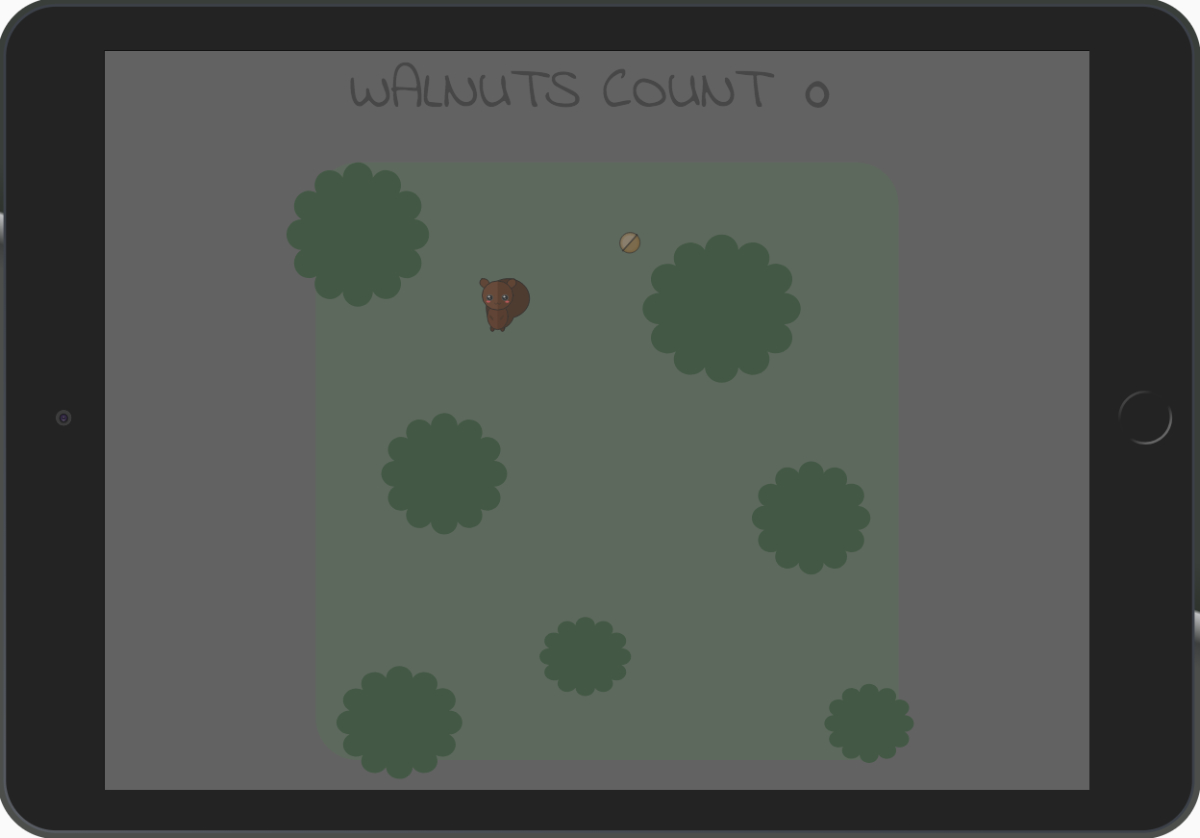
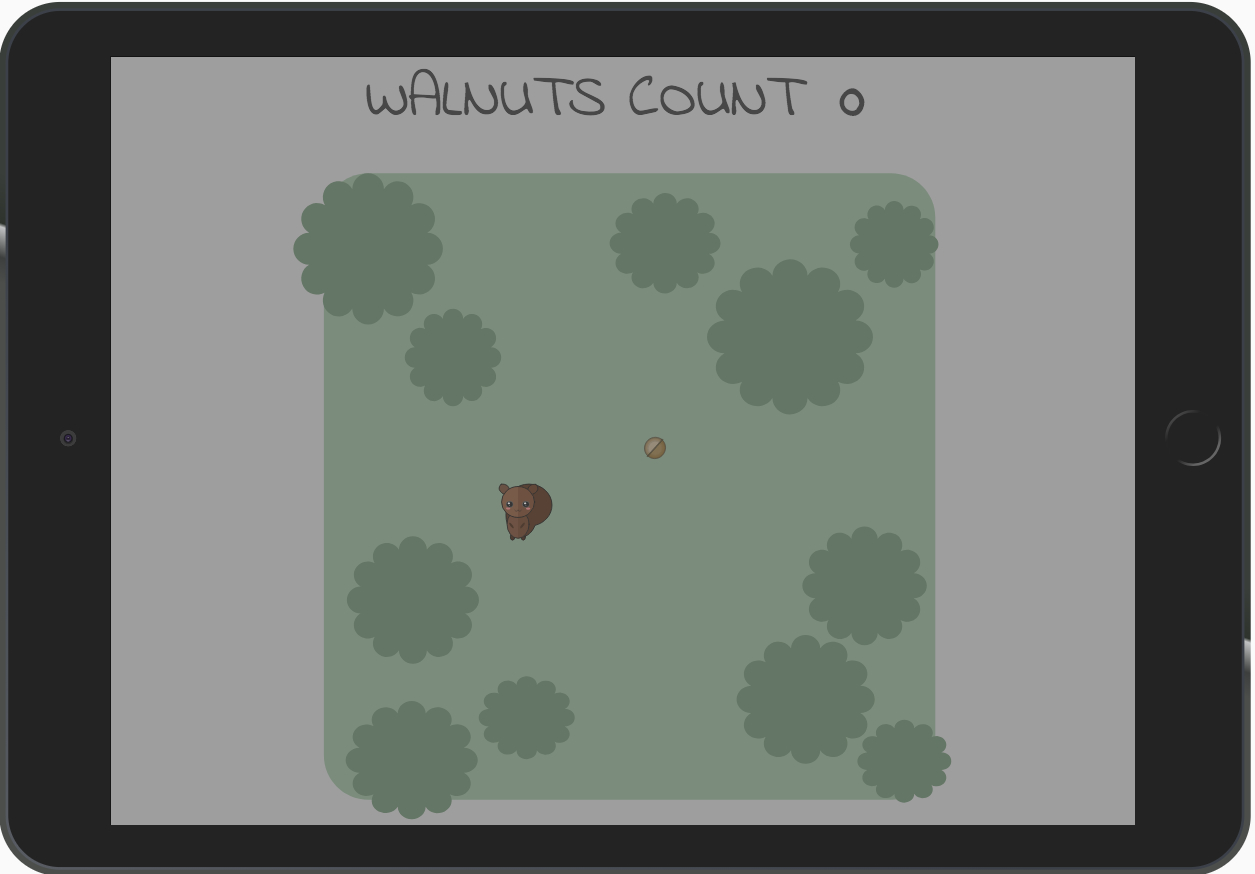
updated svgs

diff --git a/css/style.css b/css/style.css
@@ -2,7 +2,7 @@
   box-sizing: border-box;
 }
 :root {
-  background-color: #626262;
+  background-color: #9E9E9E;
   color: #474747;
   font-family: 'Indie Flower', cursive;
 }
